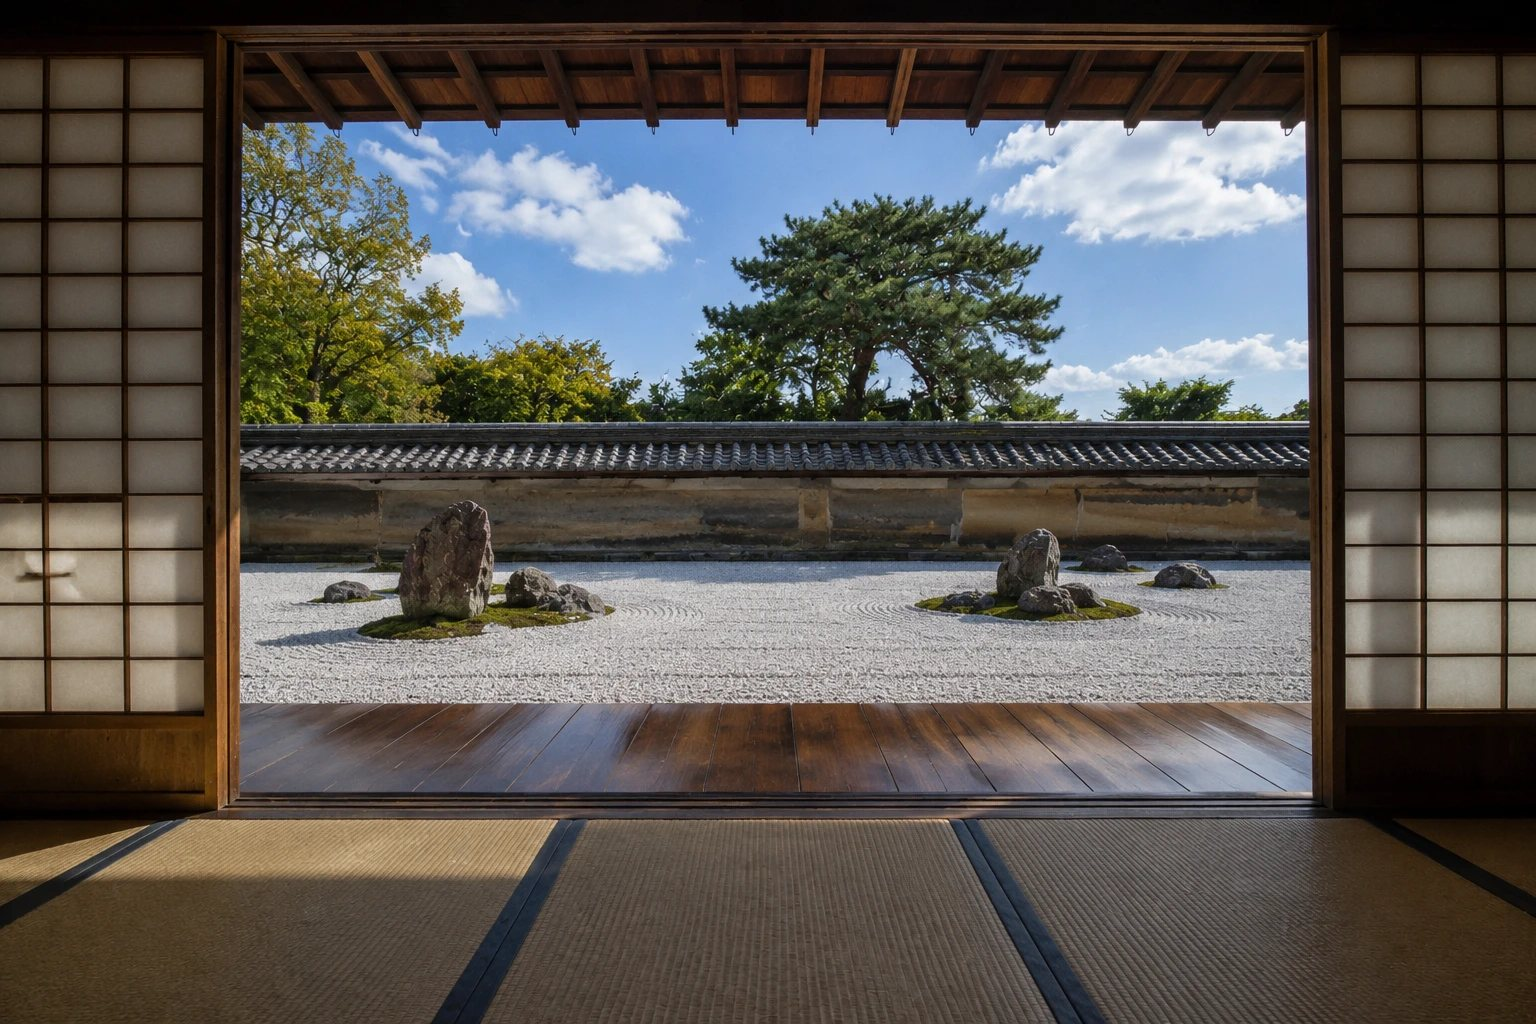
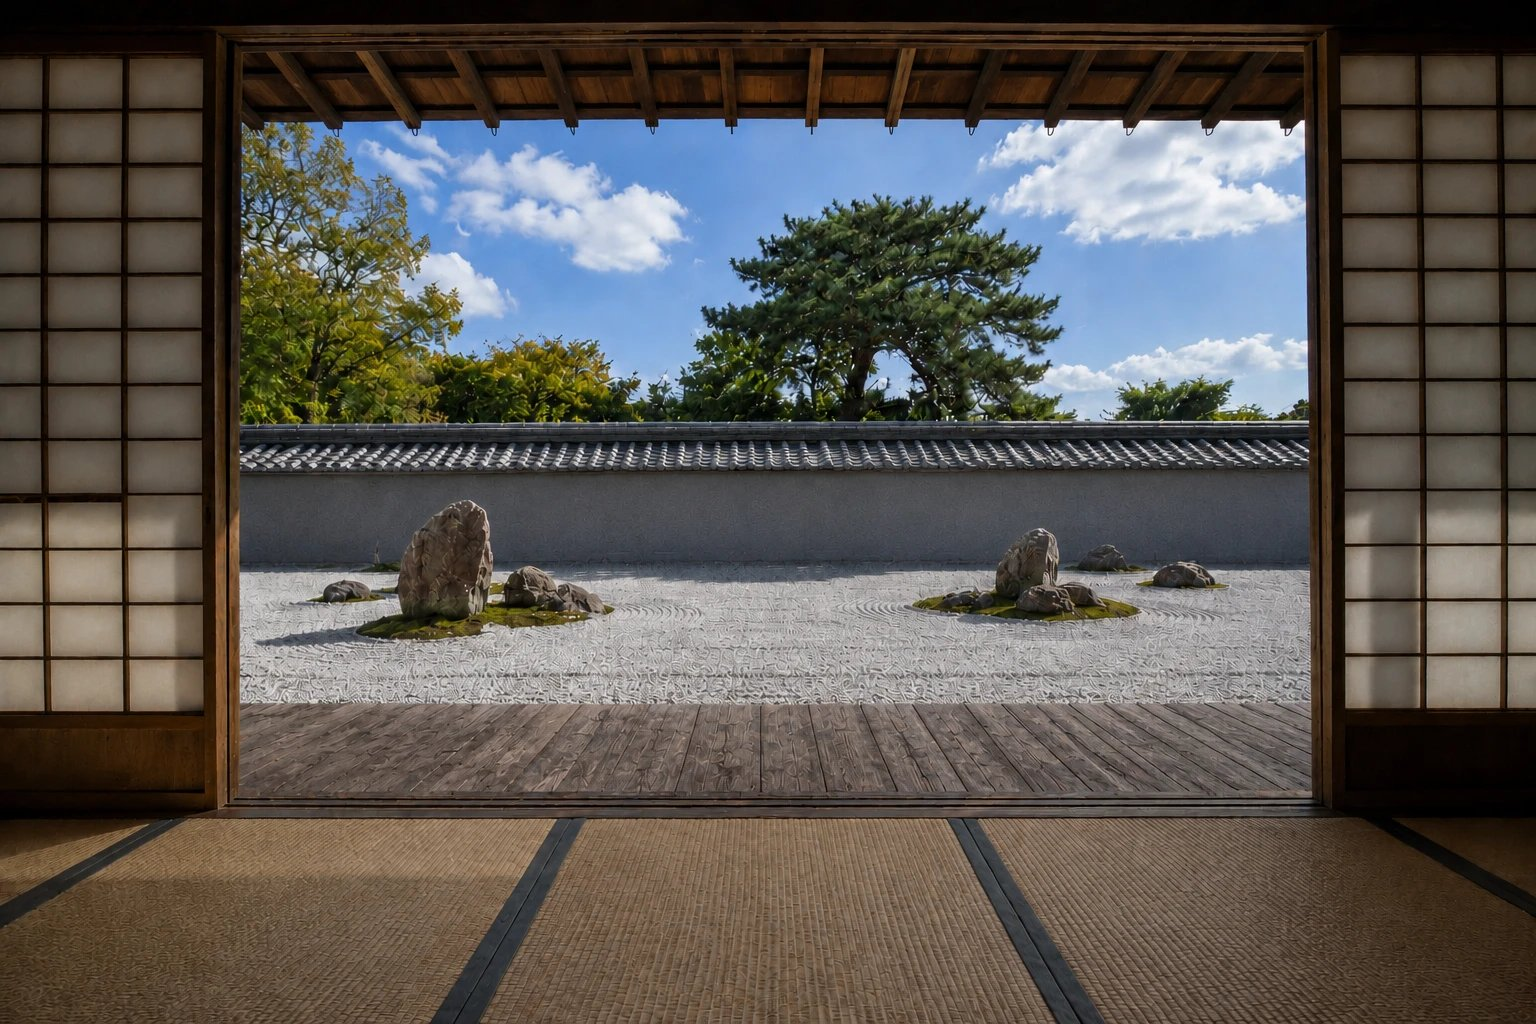
配信の細部調整：線香を右下／海岸名称／中断は入口へ／枯山水を灰色塀版に (#13)
* お布施リンクを有効化後の新しいStripe Payment Linkに差し替え

Stripeアカウント（よろづソリューションズ・個人事業主）の有効化に伴い、
SUPPORT_URL を本番受け取り可能な新しい Payment Link に更新。
外部リンクのみ＝CSP不変。

Claude-Session: https://claude.ai/code/session_01DtCPj9tTdwZhZZzFo6SnTf

* 本堂（honden）に作画を追加：障子の採光＋奥の円相＋手前の坐蒲＋板の床

既定座処の本堂が背景グラデと線香だけで空だったため、他座処と同様の
ミニマルSVG作画を追加。障子の柔らかな灯り、奥に淡い円相（掛軸）、
手前に坐蒲（空の席）、板敷きの床。CSP不変（インラインSVGのみ）。

Claude-Session: https://claude.ai/code/session_01DtCPj9tTdwZhZZzFo6SnTf

* 本堂の本尊を円相から阿弥陀如来坐像に変更

円相（掛軸）を外し、本尊として阿弥陀如来の坐像をインラインSVGで作画：
光背（頭光）・肉髻＋宝珠・白毫・伏し目の相・袈裟のひだ・弥陀定印・蓮華座。
障子の採光と坐蒲（空の席）はそのまま。CSP不変。

Claude-Session: https://claude.ai/code/session_01DtCPj9tTdwZhZZzFo6SnTf

* 本堂を実写の本堂写真（金色の阿弥陀如来）に置き換え

SVGの作画（障子・仏像・坐蒲）をやめ、本物の本堂内陣の写真を
?live=honden / 本堂座処の全画面背景に採用（assets/brush/honden.jpg, 325KB）。
ローカル画像のため CSP（img-src 'self'）不変。

Claude-Session: https://claude.ai/code/session_01DtCPj9tTdwZhZZzFo6SnTf

* 枯山水を実写の石庭写真に置き換え（龍安寺ふう）

SVGの石組＋砂紋をやめ、本物の枯山水の写真を ?live=kare / 枯山水座処の
全画面背景に採用（assets/brush/kare.jpg, 309KB）。CSP（img-src 'self'）不変。

Claude-Session: https://claude.ai/code/session_01DtCPj9tTdwZhZZzFo6SnTf

* 猫を実写の和室写真（三毛猫）に置き換え＋配信帯文字の視認性改善

・猫座処を実写写真に（assets/brush/neko.jpg, 192KB）。SVGの寝猫を撤去。
・配信モードの上下帯（在席数・キャプション）に暗いtext-shadowを付与し、
  明るい写真背景でも読めるように。CSP不変。

Claude-Session: https://claude.ai/code/session_01DtCPj9tTdwZhZZzFo6SnTf

* 調息の額を実写の和室写真に置き換え

調息の額座処（?live=cho）を実写写真に（assets/brush/cho.jpg, 178KB）。
SVGの額（.slot）を撤去し、関連CSSも整理。CSP不変。
これで本堂・枯山水・猫・調息の4座処が実写に。
[…]

diff --git a/index.html b/index.html
@@ -173,9 +173,6 @@
   .status.show{opacity:1}
   #session[data-scene="kare"] #status,#session[data-scene="cho"] #status,#session[data-scene="neko"] #status{color:rgba(40,32,22,.6)}
   #session[data-scene="neko"] #status{bottom:22%}   /* 眠る猫と文字が重ならないよう上へ逃がす */
-  /* 調息：写真の香炉の位置に線香を立てる（写真側に受け皿があるのでアプリの皿は隠す） */
-  #session[data-scene="cho"] .censer{ right:auto; left:48.6%; bottom:29.5%; transform:translateX(-50%) scale(.5); transform-origin:bottom center }
-  #session[data-scene="cho"] .bowl{ display:none }
 
   /* 坐禅中の中断/継続 確認 */
   #confirm{position:absolute; inset:0; display:none; align-items:center; justify-content:center;
@@ -362,7 +359,7 @@ const T = {
     p_alone:"いま この堂にいるのは あなたひとり",
     p_count:"いま {c} の地域から、{p}人がこの堂に",
     confirm_msg:"坐を、つづけますか？", confirm_cont:"つづける", confirm_stop:"やめる",
-    scenes:{honden:"本堂",kare:"枯山水",umi:"海辺の岸壁",tsuki:"夜の月",neko:"寝ている猫の横",cho:"調息の額"}
+    scenes:{honden:"本堂",kare:"枯山水",umi:"海岸",tsuki:"夜の月",neko:"寝ている猫の横",cho:"調息の額"}
   },
   en:{
     tagline:"Anytime, from anywhere.<br>Take one breath.",
@@ -378,7 +375,7 @@ const T = {
     p_alone:"You are the only one in the hall right now",
     p_count:"{p} people from {c} regions are in the hall now",
     confirm_msg:"Continue sitting?", confirm_cont:"Continue", confirm_stop:"End",
-    scenes:{honden:"Main hall",kare:"Dry garden",umi:"Sea cliff",tsuki:"Moonlit night",neko:"Beside a sleeping cat",cho:"“Chosoku” plaque"}
+    scenes:{honden:"Main hall",kare:"Dry garden",umi:"Seashore",tsuki:"Moonlit night",neko:"Beside a sleeping cat",cho:"“Chosoku” plaque"}
   },
   "zh-Hans":{
     tagline:"全天候，从世界任何角落。<br>歇一口气。",
@@ -394,7 +391,7 @@ const T = {
     p_alone:"此刻，堂中只有你一人",
     p_count:"此刻，来自 {c} 个地区的 {p} 人正在堂中",
     confirm_msg:"继续坐禅吗？", confirm_cont:"继续", confirm_stop:"结束",
-    scenes:{honden:"正殿",kare:"枯山水",umi:"海边崖壁",tsuki:"夜月",neko:"睡猫旁",cho:"「调息」匾额"}
+    scenes:{honden:"正殿",kare:"枯山水",umi:"海岸",tsuki:"夜月",neko:"睡猫旁",cho:"「调息」匾额"}
   },
   "zh-Hant":{
     tagline:"全天候，從世界任何角落。<br>歇一口氣。",
@@ -410,7 +407,7 @@ const T = {
     p_alone:"此刻，堂中只有你一人",
     p_count:"此刻，來自 {c} 個地區的 {p} 人正在堂中",
     confirm_msg:"繼續坐禪嗎？", confirm_cont:"繼續", confirm_stop:"結束",
-    scenes:{honden:"正殿",kare:"枯山水",umi:"海邊崖壁",tsuki:"夜月",neko:"睡貓旁",cho:"「調息」匾額"}
+    scenes:{honden:"正殿",kare:"枯山水",umi:"海岸",tsuki:"夜月",neko:"睡貓旁",cho:"「調息」匾額"}
   },
   ko:{
     tagline:"24시간, 세계 어디에서나.<br>한 호흡, 쉬어 가다.",
@@ -426,7 +423,7 @@ const T = {
     p_alone:"지금 이 당에 있는 사람은 당신 혼자입니다",
     p_count:"지금 {c}개 지역에서 {p}명이 이 당에 있습니다",
     confirm_msg:"좌선을 계속할까요?", confirm_cont:"계속", confirm_stop:"그만",
-    scenes:{honden:"본당",kare:"고산수 정원",umi:"바닷가 절벽",tsuki:"밤의 달",neko:"잠든 고양이 곁",cho:"‘조식’ 편액"}
+    scenes:{honden:"본당",kare:"고산수 정원",umi:"해안",tsuki:"밤의 달",neko:"잠든 고양이 곁",cho:"‘조식’ 편액"}
   },
   es:{
     tagline:"A toda hora, desde cualquier lugar.<br>Toma un respiro.",
@@ -442,7 +439,7 @@ const T = {
     p_alone:"Ahora mismo eres la única persona en la sala",
     p_count:"Ahora hay {p} personas de {c} regiones en la sala",
     confirm_msg:"¿Continuar sentado?", confirm_cont:"Continuar", confirm_stop:"Terminar",
-    scenes:{honden:"Sala principal",kare:"Jardín seco",umi:"Acantilado junto al mar",tsuki:"Noche de luna",neko:"Junto a un gato dormido",cho:"Placa «Chōsoku»"}
+    scenes:{honden:"Sala principal",kare:"Jardín seco",umi:"Orilla del mar",tsuki:"Noche de luna",neko:"Junto a un gato dormido",cho:"Placa «Chōsoku»"}
   },
   fr:{
     tagline:"À toute heure, où que vous soyez.<br>Le temps d’un souffle.",
@@ -458,7 +455,7 @@ const T = {
     p_alone:"Vous êtes seul·e dans la salle en ce moment",
     p_count:"{p} personnes de {c} régions sont dans la salle",
     confirm_msg:"Continuer à méditer ?", confirm_cont:"Continuer", confirm_stop:"Terminer",
-    scenes:{honden:"Salle principale",kare:"Jardin sec",umi:"Falaise au bord de mer",tsuki:"Nuit de lune",neko:"Près d’un chat endormi",cho:"Plaque « Chōsoku »"}
+    scenes:{honden:"Salle principale",kare:"Jardin sec",umi:"Bord de mer",tsuki:"Nuit de lune",neko:"Près d’un chat endormi",cho:"Plaque « Chōsoku »"}
   },
   de:{
     tagline:"Jederzeit, von überall.<br>Einen Atemzug lang innehalten.",
@@ -474,7 +471,7 @@ const T = {
     p_alone:"Im Moment bist du allein in der Halle",
     p_count:"{p} Menschen aus {c} Regionen sind jetzt in der Halle",
     confirm_msg:"Weiter sitzen?", confirm_cont:"Weiter", confirm_stop:"Beenden",
-    scenes:{honden:"Haupthalle",kare:"Trockengarten",umi:"Klippe am Meer",tsuki:"Mondnacht",neko:"Neben einer schlafenden Katze",cho:"„Chōsoku“-Tafel"}
+    scenes:{honden:"Haupthalle",kare:"Trockengarten",umi:"Meeresküste",tsuki:"Mondnacht",neko:"Neben einer schlafenden Katze",cho:"„Chōsoku“-Tafel"}
   },
   pt:{
     tagline:"A qualquer hora, de qualquer lugar.<br>Respire fundo.",
@@ -490,7 +487,7 @@ const T = {
     p_alone:"Neste momento, você é a única pessoa no salão",
     p_count:"Agora há {p} pessoas de {c} regiões no salão",
     confirm_msg:"Continuar sentado?", confirm_cont:"Continuar", confirm_stop:"Encerrar",
-    scenes:{honden:"Salão principal",kare:"Jardim seco",umi:"Penhasco à beira-mar",tsuki:"Noite de luar",neko:"Ao lado de um gato dormindo",cho:"Placa «Chōsoku»"}
+    scenes:{honden:"Salão principal",kare:"Jardim seco",umi:"Beira-mar",tsuki:"Noite de luar",neko:"Ao lado de um gato dormindo",cho:"Placa «Chōsoku»"}
   }
 };
 const ORIENT = {
@@ -840,7 +837,7 @@ const ambient = (() => {
         later(knock,(15+Math.random()*9)*1000); };
       later(knock,(7+Math.random()*6)*1000);
     },
-    /* 海辺の岸壁：寄せて引く波。ゆっくり膨らみ、しずまる。 */
+    /* 海岸：寄せて引く波。ゆっくり膨らみ、しずまる。 */
     umi(){
       const s=noise(), lp=ac.createBiquadFilter(); lp.type='lowpass'; lp.frequency.value=420; lp.Q.value=0.4;
       const g=ac.createGain(); g.gain.value=0.13; mod(g.gain,0.13,0.09); mod(g.gain,0.04,0.137); mod(lp.frequency,260,0.09);
@@ -1050,7 +1047,7 @@ function startIncense(durMs){
 function endSession(){ $('#status').classList.remove('show'); bell(0,0.9); presence.setSitting(false);
   setTimeout(()=>{ stopSmoke(); ambient.stop(1.4); show('end'); }, 4000); }
 function abort(){ timerActive=false; cancelAnimationFrame(timerRAF); clearTimeout(ringTimer); stopSmoke(); ambient.stop(0.4); presence.setSitting(false);
-  $('#confirm').classList.remove('show'); $('#orient').style.display='none'; $('#stick').style.height='280px'; show('splash'); }
+  $('#confirm').classList.remove('show'); $('#orient').style.display='none'; $('#stick').style.height='280px'; show('setup'); }
 
 /* ---------- wire up ---------- */
 /* 言語ピッカー（ポップオーバー）。バーのボタンで開閉、外側クリックで閉じる。 */
@@ -1076,7 +1073,7 @@ $('#soundBtn').onclick=()=>{ soundOn=!soundOn; store.set('issoku_sound', soundOn
 refreshSoundBtn();
 $('#beginBtn').onclick=enterSession;
 $('#exitBtn').onclick=abort;
-/* 坐禅中に画面をクリック → 中断/継続の確認（やめる＝初期画面へ） */
+/* 坐禅中に画面をクリック → 中断/継続の確認（やめる＝坐雲堂の入口=setupへ） */
 function showConfirm(){
   if(!$('#session').classList.contains('on')) return;
   if($('#orient').style.display==='flex') return;      // オリエン中は出さない